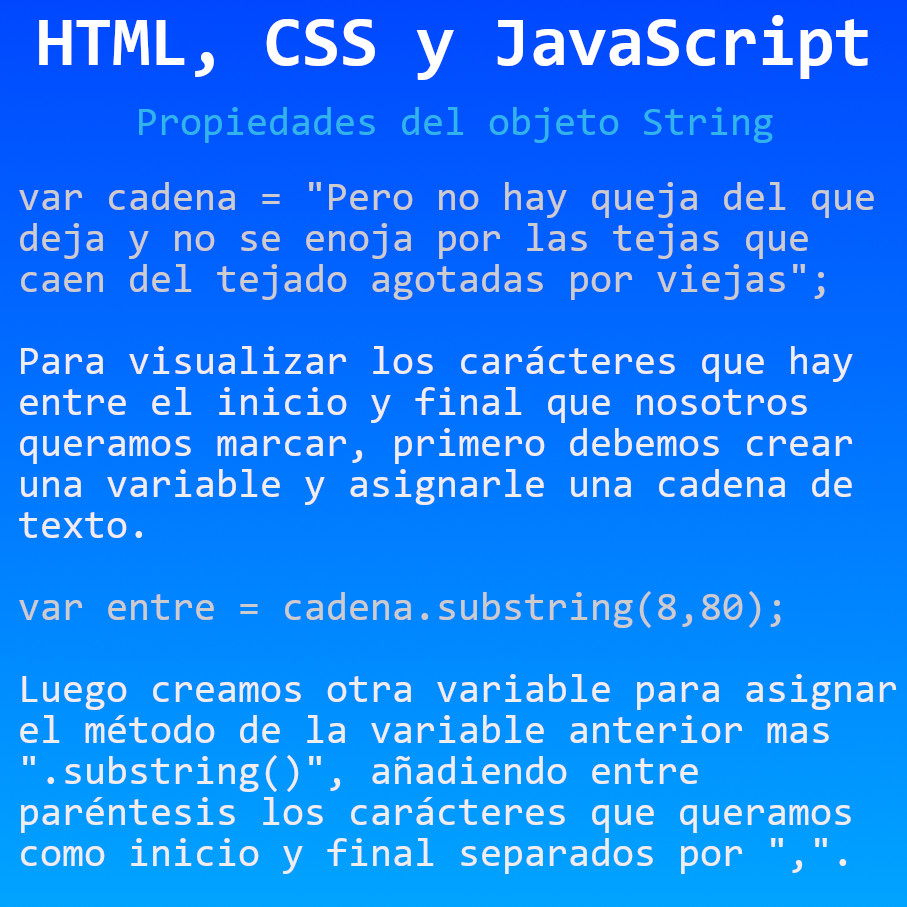
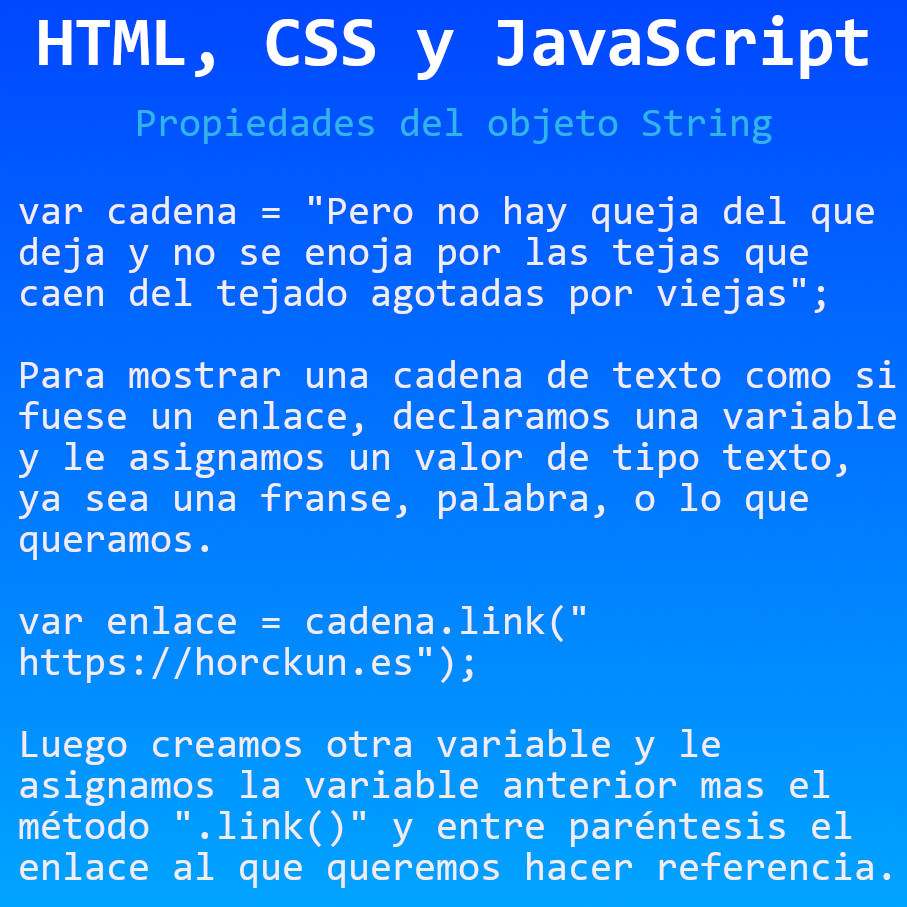
Métodos del objeto String
Métodos del objeto String en JavaScript

diff --git a/HTML, CSS y JavaScript/Métodos del objeto String/js/funciones.js b/HTML, CSS y JavaScript/Métodos del objeto String/js/funciones.js
@@ -21,3 +21,10 @@ var entre = cadena.substring(8,80);
 document.write("En la cadena: <strong>"+cadena+"</strong>, entre la posición <strong>8</strong> y <strong>80</strong> se encuentra: "+entre+".");
 // SALTO DE LÍNEA
 document.write("<hr>");
+// MOSTRAR TEXTO COMO ENLACE
+// convierte la cadena que queramos en un enlace
+var enlace = cadena.link("https://horckun.es");
+// MOSTRAR EN PANTALLA
+document.write("Texto en enlace: "+enlace+".");
+// SALTO DE LÍNEA
+document.write("<hr>");
